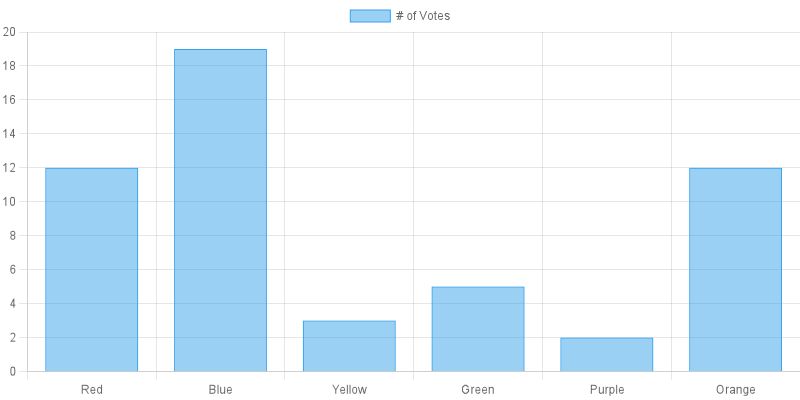
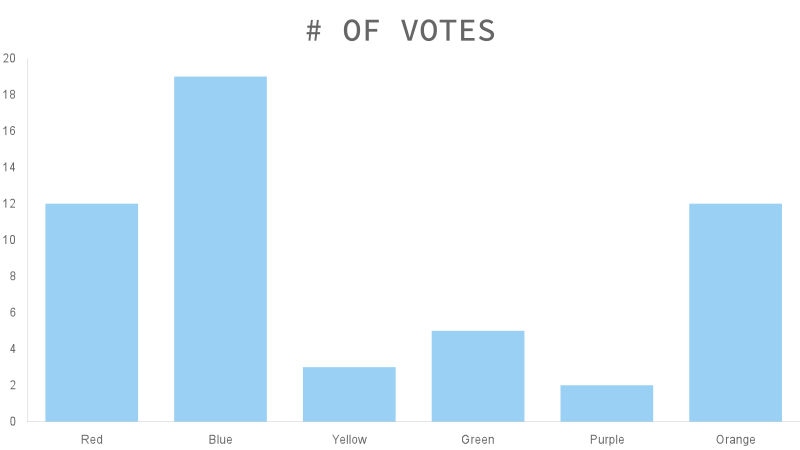
Documentation refined

diff --git a/chartjs-action.js b/chartjs-action.js
@@ -1,11 +1,13 @@
-const { createCanvas, loadImage } = require('canvas')
+const { createCanvas } = require('canvas')
 const { Chart  } = require('chart.js/auto')
 const yaml = require('yaml')
 const path = require('path')
 const fs = require('fs')
 
-function createChart(chartData) {
-    const canvas = createCanvas(800, 400)
+function createChart(chartData, options) {
+    const canvasWidth = options.width * 1// options.width * options.scale
+    const canvasHeight = (options.width * 1) / 16 * 9 // (options.width * options.scale) / 16 * 9
+    const canvas = createCanvas(canvasWidth, canvasHeight)
     const ctx = canvas.getContext('2d')
   
     new Chart(ctx, chartData)
@@ -21,5 +23,5 @@ module.exports = function (content, options) {
     chartData.options.animations = { colors: false, x: false }
     chartData.options.transitions = { active: { animation: { duration: 0 } } }
 
-    return createChart(chartData)
+    return createChart(chartData, options)
 }

diff --git a/examples.html b/examples.html
@@ -1,0 +1,5 @@
+<h1 id="examples">Examples</h1>
+<p>Creates the example images using pandoc and the
+pandoc-mermaid-chartjs-filter.</p>
+<p><img src="example-mermaid.png" class="mermaid" alt="" /></p>
+<p><img src="example-chartjs.png" class="chartjs" alt="" /></p>

diff --git a/README.md b/README.md
@@ -86,8 +86,36 @@ The code above will create the following chart:
 
 ### Advanced Usage
 
-The `pandoc-mermaid-chartjs-filter` provides additional options to configure the results.
+The `pandoc-mermaid-chartjs-filter` provides additional options to configure the results. Therefore you have to use the special pandoc syntax for code blocks to set the additional options.
 
+~~~markdown
+```{.mermaid [option]=[value] [optionN]=[valueN]}
+...
+~~~
+
+AS you can see, you have to enclose the code block class in curly braces, add a point before the class identifier and, seperated by a space, set as much options and values, as you like to.
+
+~~~markdown
+```{.mermaid format="png" theme="forest" width="1200"}
+sequenceDiagram
+    Alice->>+John: Hello John, how are you?
+    Alice->>+John: John, can you hear me?
+    John-->>-Alice: Hi Alice, I can hear you!
+    John-->>-Alice: I feel great!
+```
+~~~
+
+The example above sets the `format` to `png`, the `theme` to `forest` and the `width` to `1200`.
+
+- `background`: Sets the background color of the diagram or chart. The default value is `white`.
+- `caption`: Sets the caption for the diagram or chart. This caption will be used for the `alt` and `title` attribute in HTML.
+- `filename`: Sets the filename for the rendered output file. The default value is `false`, so the rendered images won't be written to the file system. Regard: The format of the rendered image will follow the filename extension, if the filename is set
+- `format`: Sets the format of the rendered image. Currently supports `png`, `svg`, and `pdf`. The default value is `png`.
+- `inline`: Sets the handling of the rendered image data. This means, that the images won't be written to the file system, just returned as encoded image data to pandoc.
+- `scale`: Sets the scaling factor of the rendered image. Currently only affects diagrams, that are rendered with Puppeteer, namely Mermaid.
+- `skip`: Skips the code block without rendering an image and without replacing the code with an image. This is necessary, if you want to keep Mermaid code blocks as code examples. Default value is `false`.
+- `theme`: Sets the theme to be used for rendering mermaid diagrams. Default value is `default`.
+- `width`: Sets the width of the rendered image. Default value is `800`.
 
 ## LICENSE
 

diff --git a/examples.md b/examples.md
@@ -29,9 +29,29 @@ data:
     - 5
     - 2
     - 12
-    borderWidth: 1
+    borderWidth: 0
 options:
+  font:
+    family: "'IBM Plex Serif Light', serif"
   scales:
     y:
       beginAtZero: true
+      grid:
+        display: false
+    x:
+      grid:
+        display: false
+  plugins:
+    title:
+      display: true
+      text: "# OF VOTES"
+      font:
+        family: "'Source Code Variable', 'IBM Plex Mono', monospace"
+        size: 32
+        weight: 500
+    legend:
+      display: false
+      labels:
+        font:
+          family: "'Source Code Variable', 'IBM Plex Mono', monospace"
 ```
